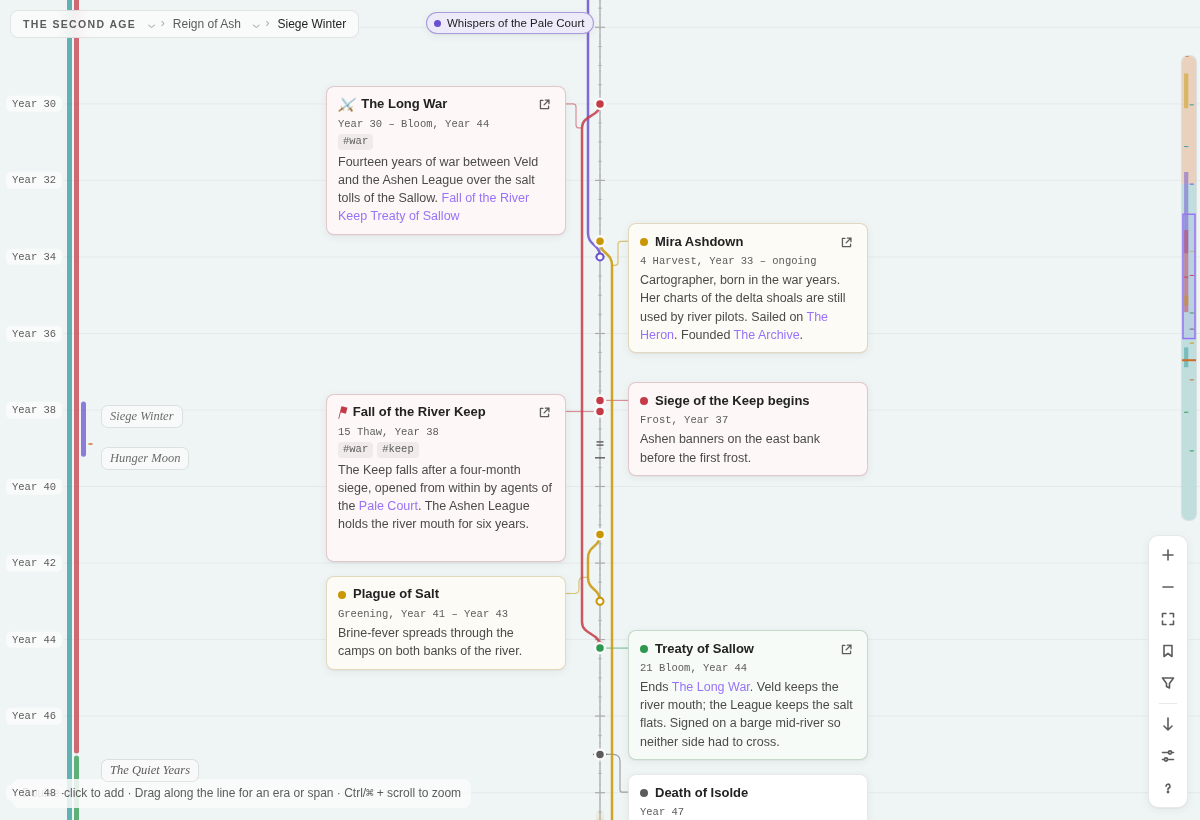
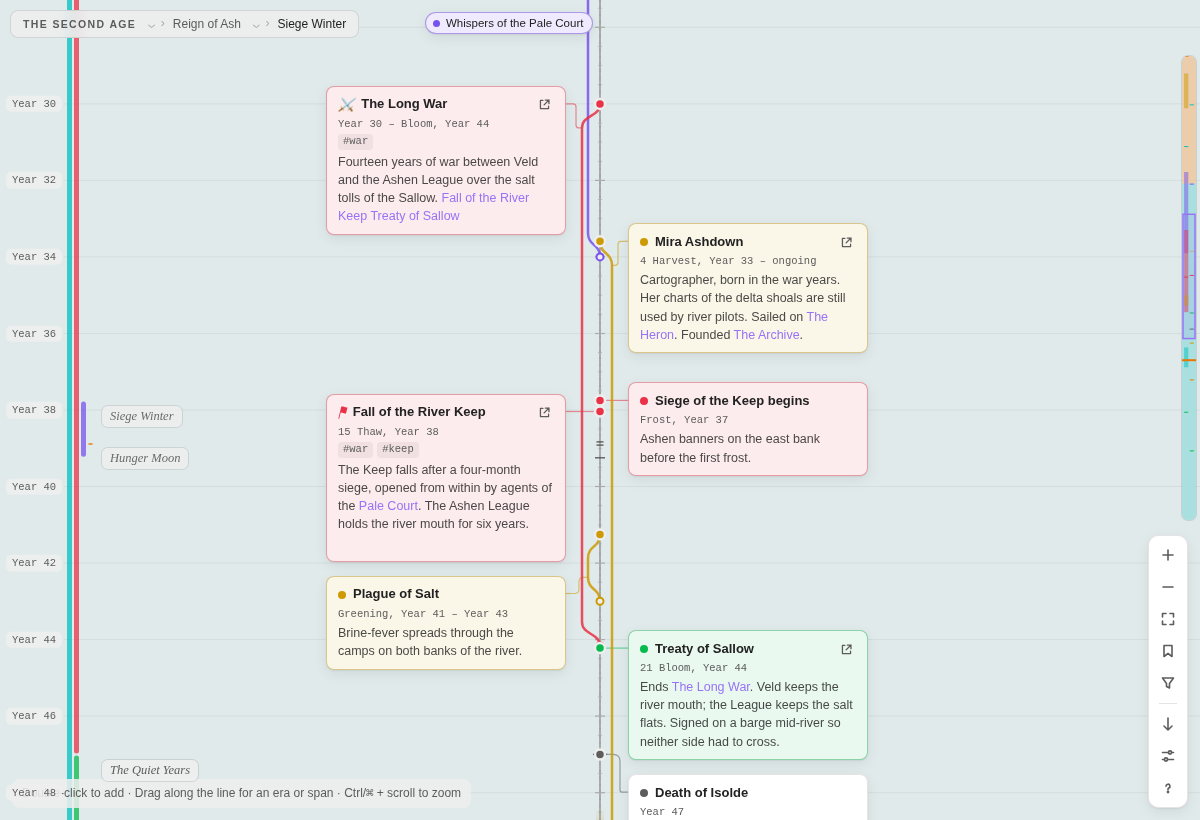
Light mode: match dark mode's look (0.4.1)

diff --git a/styles.css b/styles.css
@@ -38,29 +38,24 @@
 	--evra-band-b: .085;
 	--evra-f-era: "Fraunces", Georgia, "Iowan Old Style", "Times New Roman", serif;
 }
-/* Light themes: Obsidian's light palette is bright enough to shout, so Evra deepens it and keeps
-   era shading and card tints faint. Cards sit on a soft off-white, lifted by a hairline and a shadow. */
+/* Light themes, built to match dark: cards are colored tiles standing clearly off a slightly deeper stage,
+   with vivid lines. Obsidian's light palette is used as it is, like the dark one; only yellow is deepened
+   so it holds up on white. */
 .theme-light .evra-view,
 .theme-light .evra-embed {
-	--evra-bg: color-mix(in srgb, var(--background-secondary) 55%, var(--background-primary));
+	--evra-bg: color-mix(in srgb, var(--background-secondary), var(--text-normal) 4%);
 	--evra-surface: var(--background-primary);
-	--evra-line: color-mix(in srgb, var(--text-muted) 42%, var(--evra-bg));
-	--evra-hair: color-mix(in srgb, var(--text-normal) 10%, transparent);
-	--evra-guide: color-mix(in srgb, var(--text-normal) 5%, transparent);
-	--evra-c1: color-mix(in oklab, var(--color-red) 80%, #34363d);
-	--evra-c2: color-mix(in oklab, var(--color-orange) 80%, #34363d);
-	--evra-c3: color-mix(in oklab, var(--color-yellow) 78%, #7a4f0a);
-	--evra-c4: color-mix(in oklab, var(--color-green) 76%, #34363d);
-	--evra-c5: color-mix(in oklab, var(--color-cyan) 74%, #34363d);
-	--evra-c6: color-mix(in oklab, var(--color-purple) 84%, #34363d);
-	--evra-now: color-mix(in oklab, var(--color-orange) 85%, #34363d);
-	--evra-tint: 4%;
-	--evra-tint-border: 16%;
-	--evra-ribbon: 7%;
-	--evra-band-a: .03;
-	--evra-band-b: .05;
-	--evra-shadow: 0 1px 1px rgb(15 20 35 / .04), 0 2px 10px rgb(15 20 35 / .06);
-	--evra-shadow-lift: 0 14px 36px rgb(15 20 35 / .15);
+	--evra-line: color-mix(in srgb, var(--text-muted) 55%, var(--evra-bg));
+	--evra-hair: color-mix(in srgb, var(--text-normal) 12%, transparent);
+	--evra-guide: color-mix(in srgb, var(--text-normal) 6%, transparent);
+	--evra-c3: color-mix(in oklab, var(--color-yellow) 82%, #7a4f0a);
+	--evra-tint: 9%;
+	--evra-tint-border: 34%;
+	--evra-ribbon: 10%;
+	--evra-band-a: .035;
+	--evra-band-b: .055;
+	--evra-shadow: 0 1px 2px rgb(15 20 35 / .07), 0 4px 14px rgb(15 20 35 / .07);
+	--evra-shadow-lift: 0 14px 36px rgb(15 20 35 / .18);
 }
 .theme-dark .evra-view,
 .theme-dark .evra-embed {

diff --git a/CHANGELOG.md b/CHANGELOG.md
@@ -1,5 +1,9 @@
 # Changelog
 
+## 0.4.1 (beta)
+
+- Light mode redesigned to match dark mode: cards read as colored tiles on a slightly deeper stage, with clear colored borders, the theme's full-strength colors (yellow deepened for contrast on white), crisper lines and a firmer card shadow.
+
 ## 0.4.0 (beta)
 
 The first public beta.
